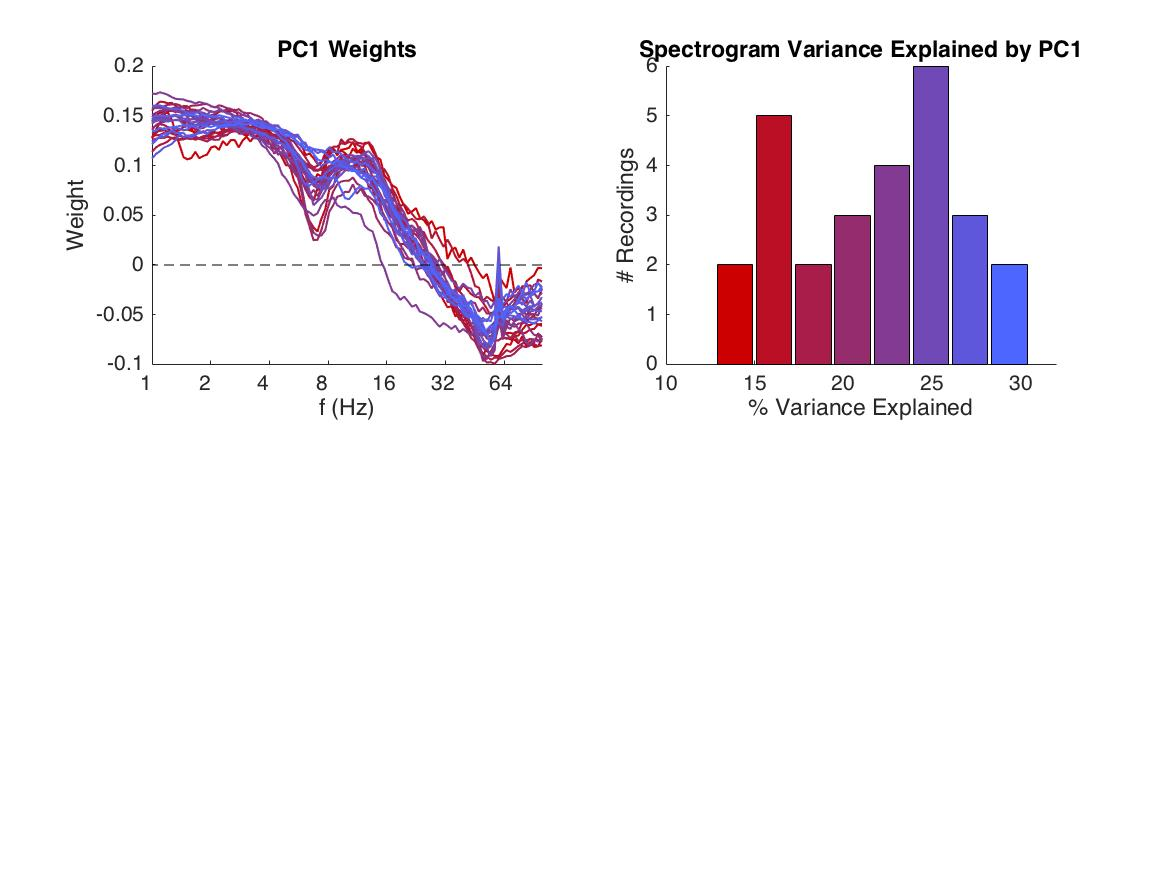
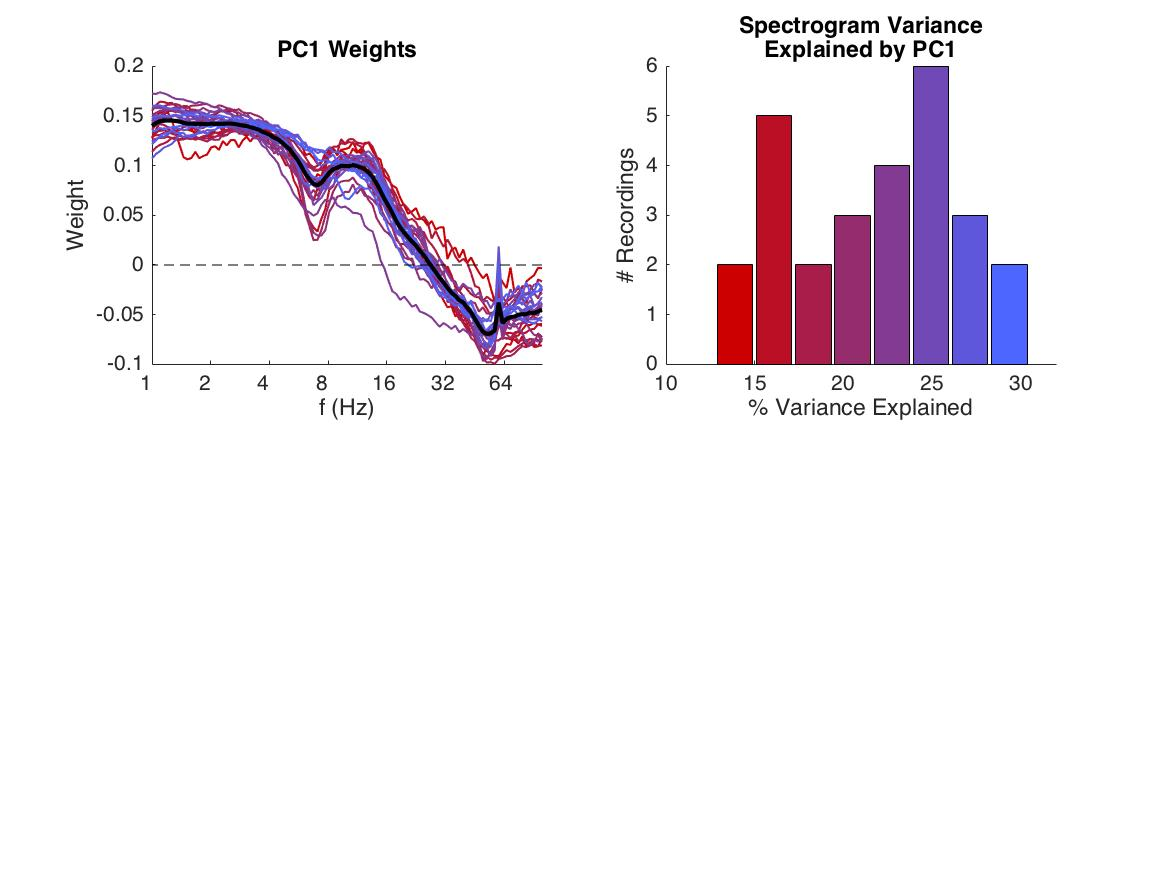
implementing weight-based SW detection

diff --git a/PickSWTHChannel.m b/PickSWTHChannel.m
@@ -70,10 +70,10 @@ dipSW = zeros(numusedchannels,1);
 dipTH = zeros(numusedchannels,1);
 %%
 for chanidx = 1:numusedchannels;
-%channum = 40;
+%channum = 1;
     display(['Channel ',num2str(chanidx),' of ',num2str(numusedchannels)])
 
-    %Calcualte Spectrogram
+    %Calcualte Z-scored Spectrogram
     freqlist = logspace(0,2,numfreqs);
     window = 10;
     noverlap = 9;
@@ -81,28 +81,39 @@ for chanidx = 1:numusedchannels;
     noverlap = noverlap*Fs;
     [FFTspec,FFTfreqs,t_FFT] = spectrogram(allLFP(:,chanidx),window,noverlap,freqlist,Fs);
     FFTspec = abs(FFTspec);
-
-    %% Find TRANSIENTS and set to 0 for PCA
     [zFFTspec,mu,sig] = zscore(log10(FFTspec)');
+
+    %% Remove transients before calculating SW histogram
+    %this should be it's own whole section - removing/detecting transients
     totz = zscore(abs(sum(zFFTspec')));
     badtimes = find(totz>5);
     zFFTspec(badtimes,:) = 0;
-
-    %% PCA
+    
+    %% PCA for Broadband Slow Wave
+    [COEFF, SCORE, LATENT] = pca(zFFTspec);
+    broadbandSlowWave = SCORE(:,1);
+    
+	%% Set Broadband filter weights for Slow Wave
+    load('SWweights.mat')
+    assert(FFTfreqs==SWfreqlist, 'spectrogram freqs.  are not what they should be...')
+    broadbandSlowWave = bsxfun(@(X,Y) X.*Y,zFFTspec,SWweights);
+    
+    
+    %% Smooth and 0-1 normalize
     smoothfact = 10; %si_FFT
     thsmoothfact = 15;
-     [COEFF, SCORE, LATENT] = pca(zFFTspec);
-     SCORE(:,1) = smooth(SCORE(:,1),smoothfact);
-    SCORE(:,1) = (SCORE(:,1)-min(SCORE(:,1)))./max(SCORE(:,1)-min(SCORE(:,1)));
+     
+    broadbandSlowWave = smooth(broadbandSlowWave,smoothfact);
+    broadbandSlowWave = (broadbandSlowWave-min(broadbandSlowWave))./max(broadbandSlowWave-min(broadbandSlowWave));
 
     %% Histogram and diptest of PC1
     histbins = linspace(0,1,numhistbins);
-    [pcahist]= hist(SCORE(:,1),histbins);
+    [pcahist]= hist(broadbandSlowWave,histbins);
 
     pc1hists(:,chanidx) = pcahist;
     pc1coeff(:,chanidx) = COEFF(:,1);
     
-    dipSW(chanidx) = hartigansdiptest(sort(SCORE(:,1)));
+    dipSW(chanidx) = hartigansdiptest(sort(broadbandSlowWave));
     
     
     %% Calculate theta

diff --git a/TestsAndExamples/CompareRecordingPC1.m b/TestsAndExamples/CompareRecordingPC1.m
@@ -72,7 +72,15 @@ EMG = EMGCorr(:,2); %Entire Recording for all recordings
 
 end
 
-%%
+
+%% Calculate Mean PC1 weight - use as test SW filter
+
+SWweights = mean(PC1weights,1);
+SWfreqlist = freqlist;
+
+
+
+%% Figure
 [~,sortexpvar] = sort(PC1expvar);
 freqlist = logspace(0,2,100);
 
@@ -84,6 +92,7 @@ figure
         set(gca,'ColorOrder',RedPurpleColors(length(PC1expvar)))
         hold all
         plot(log2(freqlist),PC1weights(sortexpvar,:)','LineWidth',1)
+        plot(log2(freqlist),SWweights,'k','LineWidth',2)
         plot(get(gca,'xlim'),[0 0],'k--')
         LogScale('x',2)
         xlim(log2(freqlist([1 end])))

diff --git a/SleepScoreMaster.m b/SleepScoreMaster.m
@@ -102,7 +102,7 @@ end
 %'savefiles'    - save the EMG,LFP files to .mats?
 
 %Overwrite pickes new and writes over existing ThLFP ans SWLFP
-overwrite = 0;
+overwrite = 1;
 
 
 %% Database File Management 
